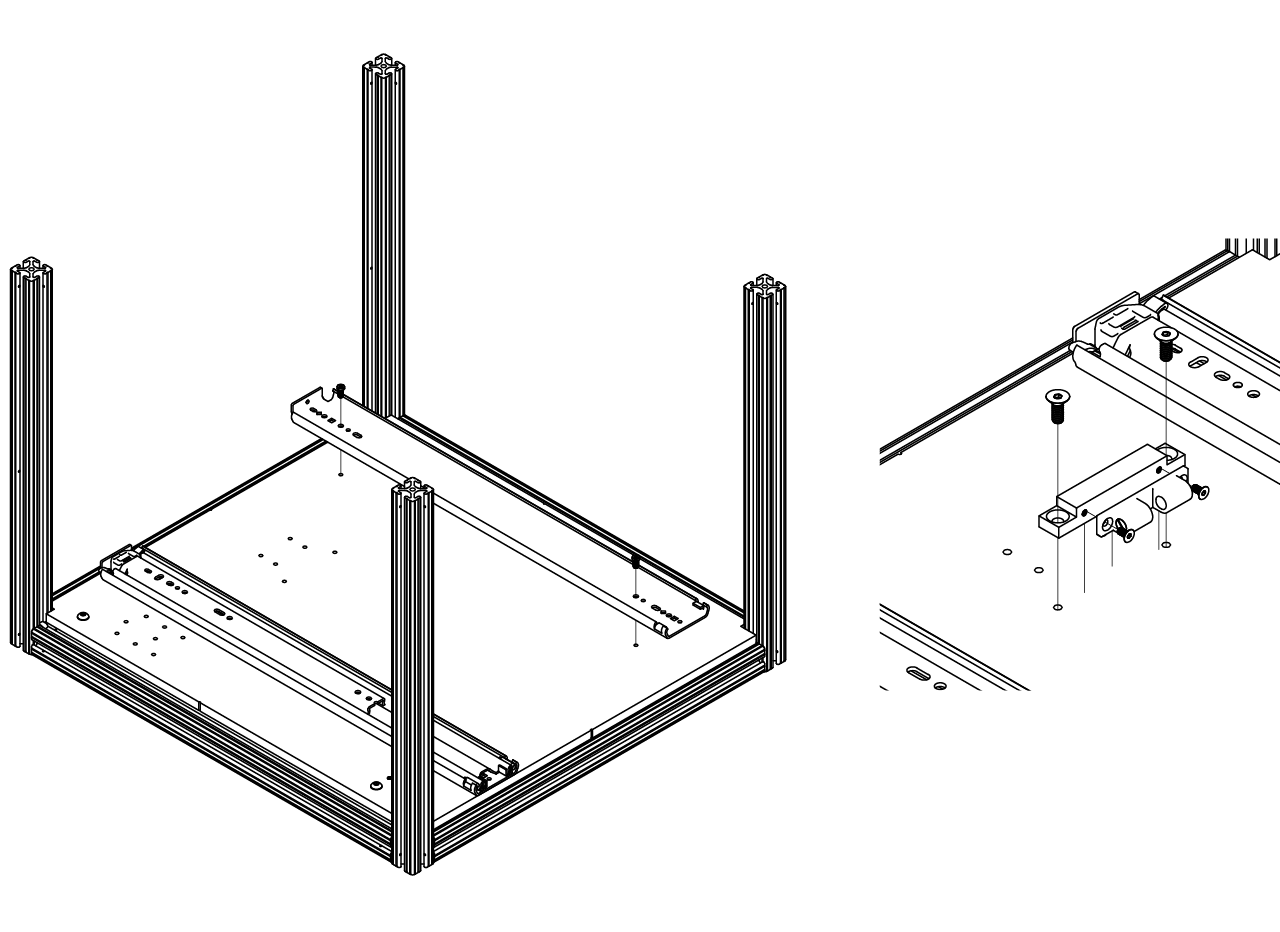
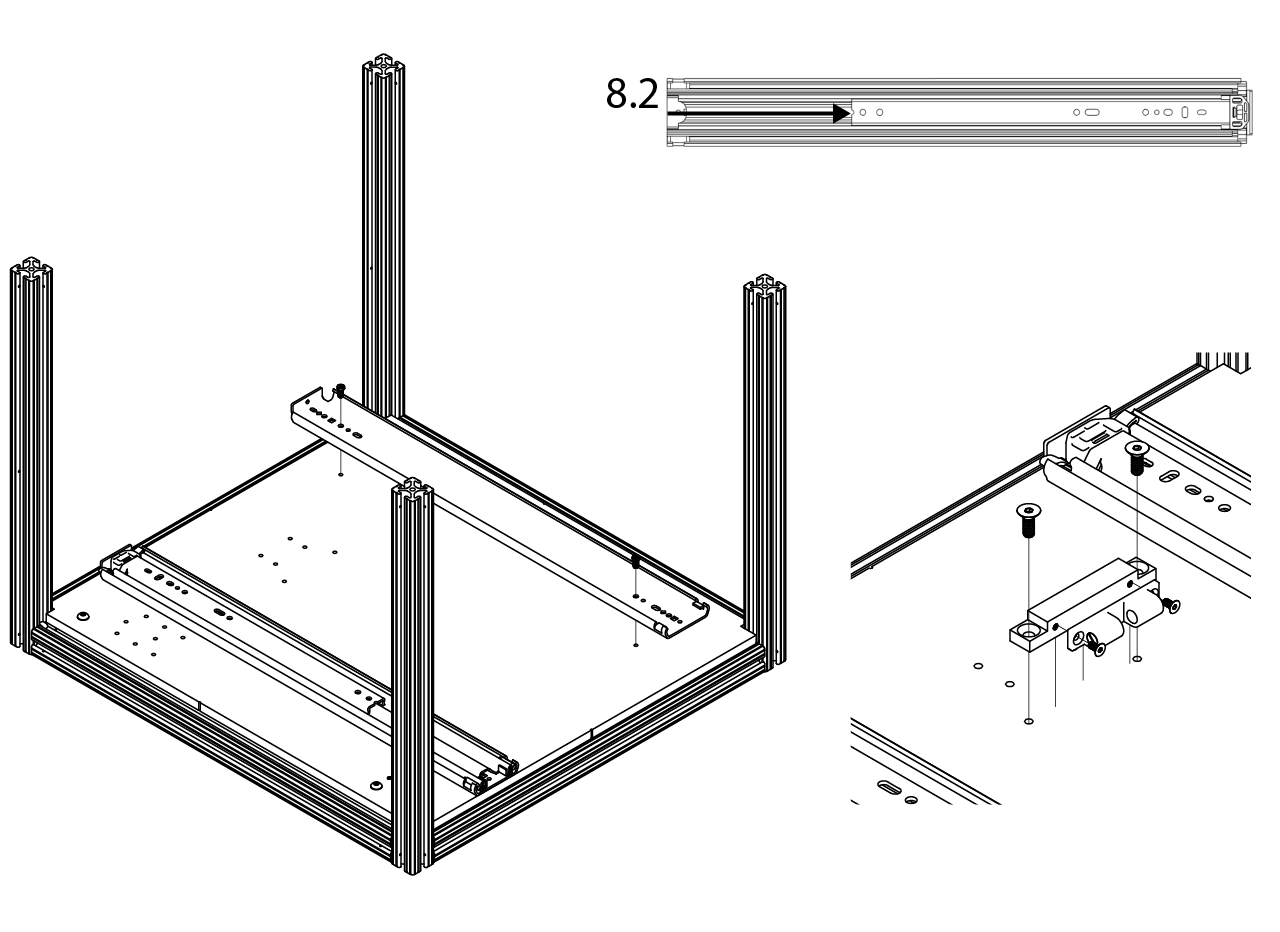
Update cabinet docs

diff --git a/src/building/cabinet.md b/src/building/cabinet.md
@@ -86,7 +86,17 @@ We use 1.5" x 1.5" T-slotted profile to build the frame of the cabinet and 1/4" 
   <img src='./assets/images/cabinet/cabinet-assembly-7.png'>
 </figure>
 
-5. Use 1/4"-20 x 1/2" long low-profile screws to install the 26" long steel base-mount drawer sliders. Screw with M4x0.7 mm, 8 mm long screws the latch holder to the latch holder adapter, then use 1/4"-20 x 11/16" flat head screws to attach the latch holder with the adapter to the bottom plate.
+::: tip
+
+Use a permanent marker to draw two straight lines on top of the botomm plate using the groves at the sides as shown below, this will be extremely useful for the projection calibration.
+
+<figure>
+  <img src='./assets/images/cabinet/cabinet-assembly-tip-1.png'>
+</figure>
+
+:::
+
+5. Cut 8.2 inches to the top base of the drawer slider, then use 1/4"-20 x 1/2" long low-profile screws to install the 26" long steel base-mount drawer sliders. Screw with M4x0.7 mm, 8 mm long screws the latch holder to the latch holder adapter, then use 1/4"-20 x 11/16" flat head screws to attach the latch holder with the adapter to the bottom plate.
 
 <figure>
   <img src='./assets/images/cabinet/cabinet-assembly-8.png'>
